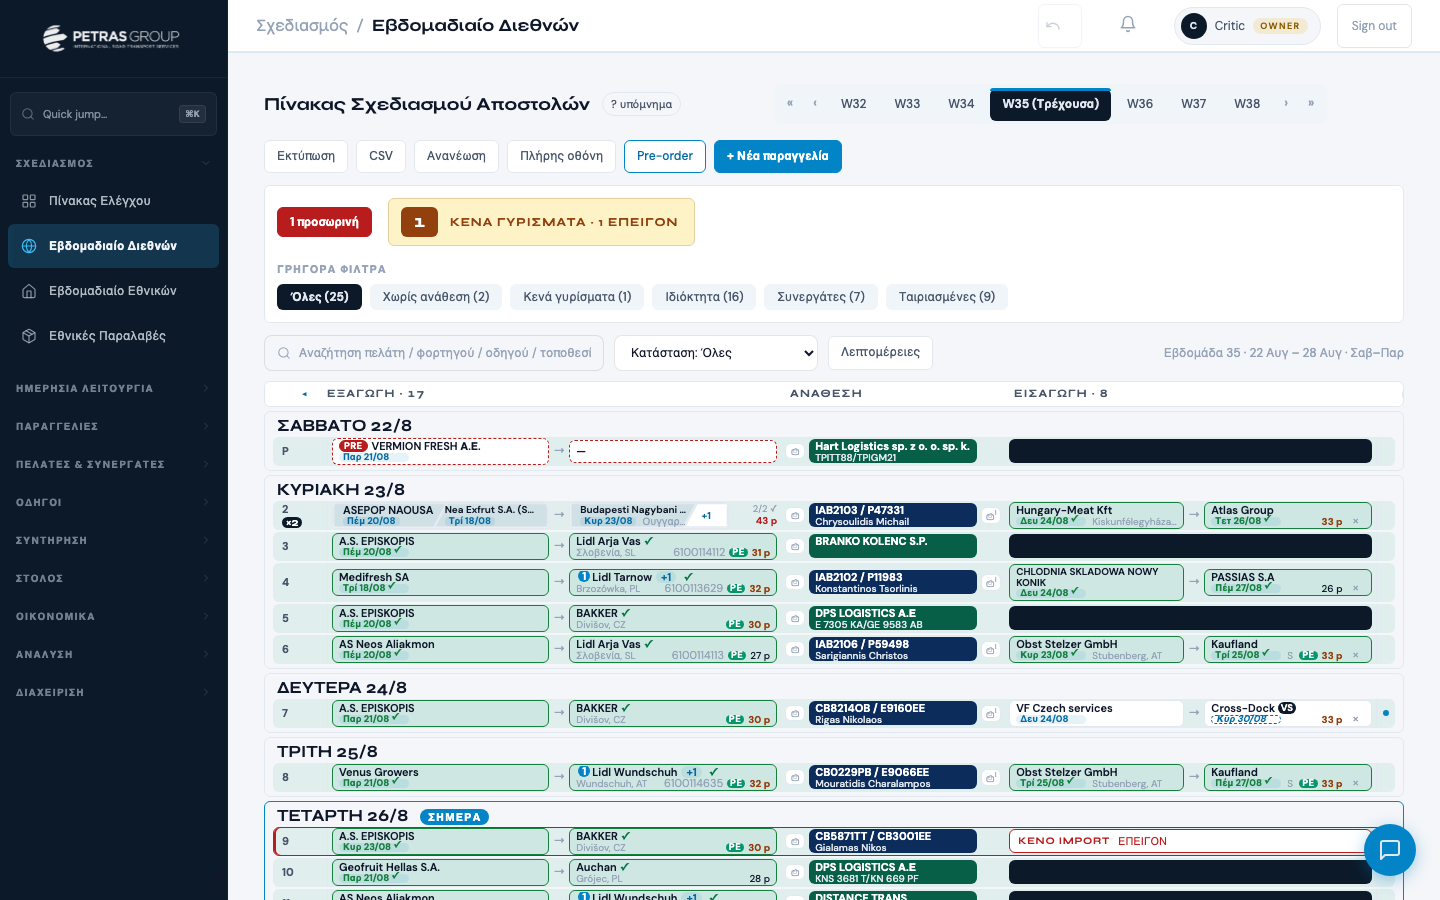
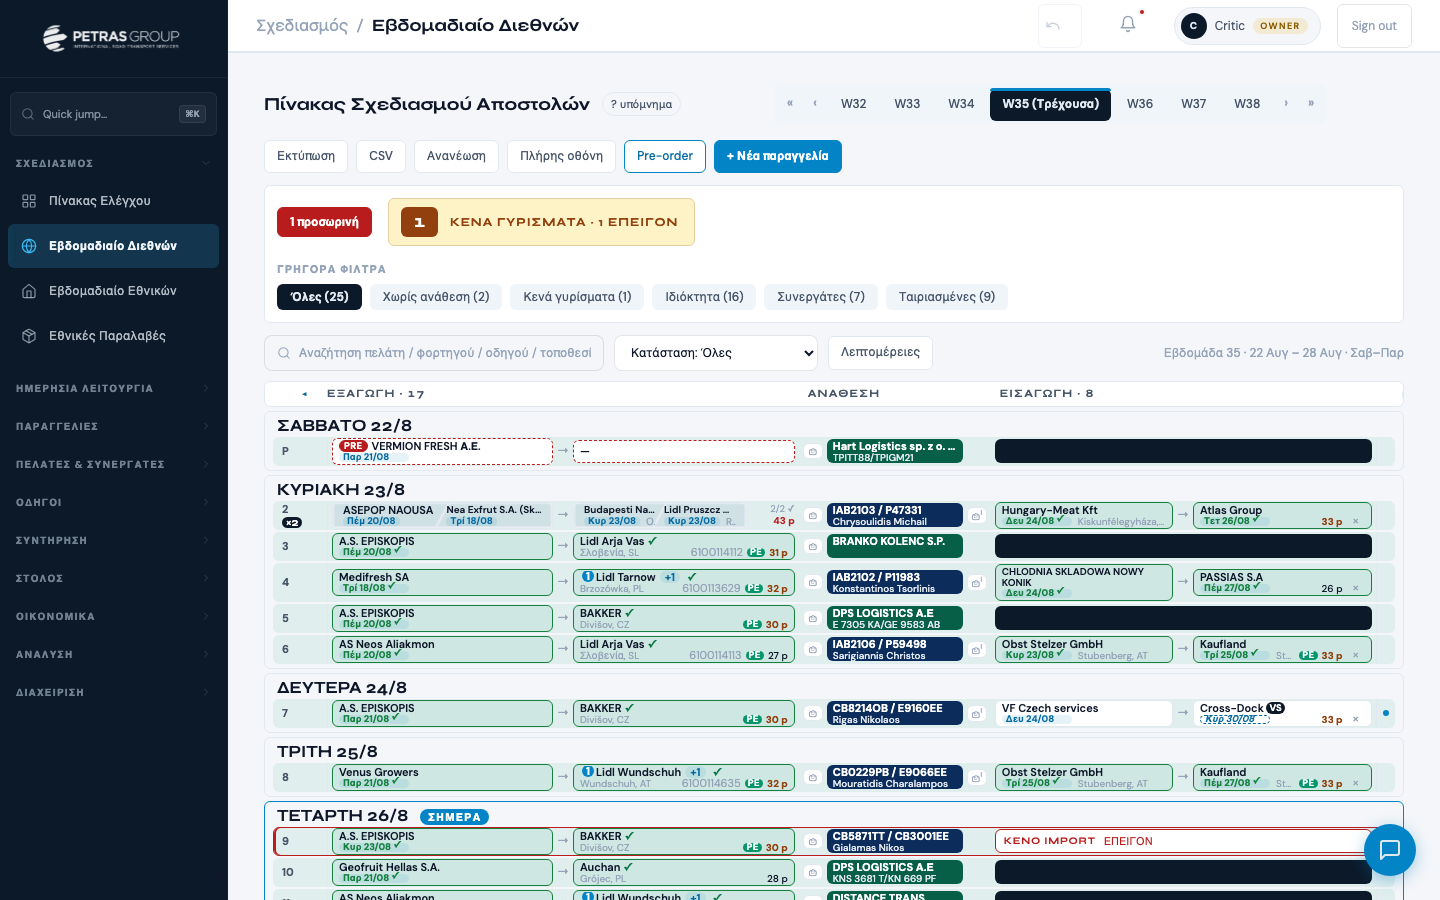
weekly_intl: γκρι ημέρα — ορατά legrow/διαχωριστικό σπασμένης (ελεγκτής P1/P2) + rebase σε ανάθεση 192
Legrow (σκέλος ρότας/τοπική κίνηση): δικό του διακεκομμένο --border-mid,
διάφανο φόντο — με διάφανη γραμμή και φόντο ίδιο με την ημέρα χανόταν.
Σπασμένη παραγγελία: το dashed διαχωριστικό των δύο σκελών επανήλθε.

diff --git a/modules/weekly_intl.js b/modules/weekly_intl.js
@@ -351,7 +351,13 @@ const _WI2_CSS=`
    padding και φόντο κάρτας. Η γραμμή πήρε δικό της όνομα. */
 .wk3.wi2 .wk3-row.wi2-rowurg{border-color:var(--danger-strong);box-shadow:inset 2px 0 0 var(--danger-strong)}
 .wk3.wi2 .wk3-row.wk3-done{background:var(--success-bg)}
-.wk3.wi2 .wk3-legrow{background:var(--surface-page);border-style:dashed;min-height:24px}
+/* Legrow (σκέλος ρότας / τοπική κίνηση) πάνω στη γκρι ημέρα (28/9): το φόντο
+   του ήταν ήδη --surface-page και το περίγραμμα ερχόταν από τη γραμμή — με
+   διάφανη γραμμή θα εξαφανιζόταν. Δικό του διακεκομμένο περίγραμμα. */
+.wk3.wi2 .wk3-legrow{background:transparent;border-style:dashed;border-color:var(--border-mid);min-height:24px}
+/* Διαχωριστικό ανάμεσα στα δύο σκέλη σπασμένης παραγγελίας (style.css
+   .wi2-splitframe .wk3-row) — το έκρυβε η διάφανη γραμμή. */
+.wk3.wi2 .wi2-splitframe .wk3-row{border-bottom:1px dashed var(--border-mid)}
 /* «2 ×2» wraps in the 36px number column; with normal line-height + 4px gap
    the two lines were 31px and pushed a grouped row to 33px (28/9). */
 .wk3.wi2 .wk3-num{border-right:none;font-size:11px;line-height:12px;color:var(--text-mid);justify-content:flex-start;padding-left:8px;gap:1px 4px;flex-wrap:wrap;font-variant-numeric:tabular-nums}

diff --git a/sw.js b/sw.js
@@ -7,7 +7,7 @@
 //   - Offline banner via postMessage to all clients
 // ═══════════════════════════════════════════════════════════
 
-const SW_VERSION = '1790623365';
+const SW_VERSION = '1790623537';
 
 // Το vendor/leaflet/* ΔΕΝ μπαίνει στο APP_SHELL επίτηδες: το pre-cache στο
 // install θα κατέβαζε 228 KB σε κάθε χρήστη, ακυρώνοντας το lazy loading της

diff --git a/app.html b/app.html
@@ -135,7 +135,7 @@
 <!-- 3. Modules -->
 <script src="modules/preorder.js?v=1790573980"></script>
 <script src="modules/dashboard.js?v=1788720070"></script>
-<script src="modules/weekly_intl.js?v=1790623365"></script>
+<script src="modules/weekly_intl.js?v=1790623537"></script>
 <script src="modules/weekly_natl.js?v=1789387831"></script>
   <script src="modules/daily_ramp.js?v=1789328870"></script>
   <script src="modules/costs.js?v=1790108919"></script>
